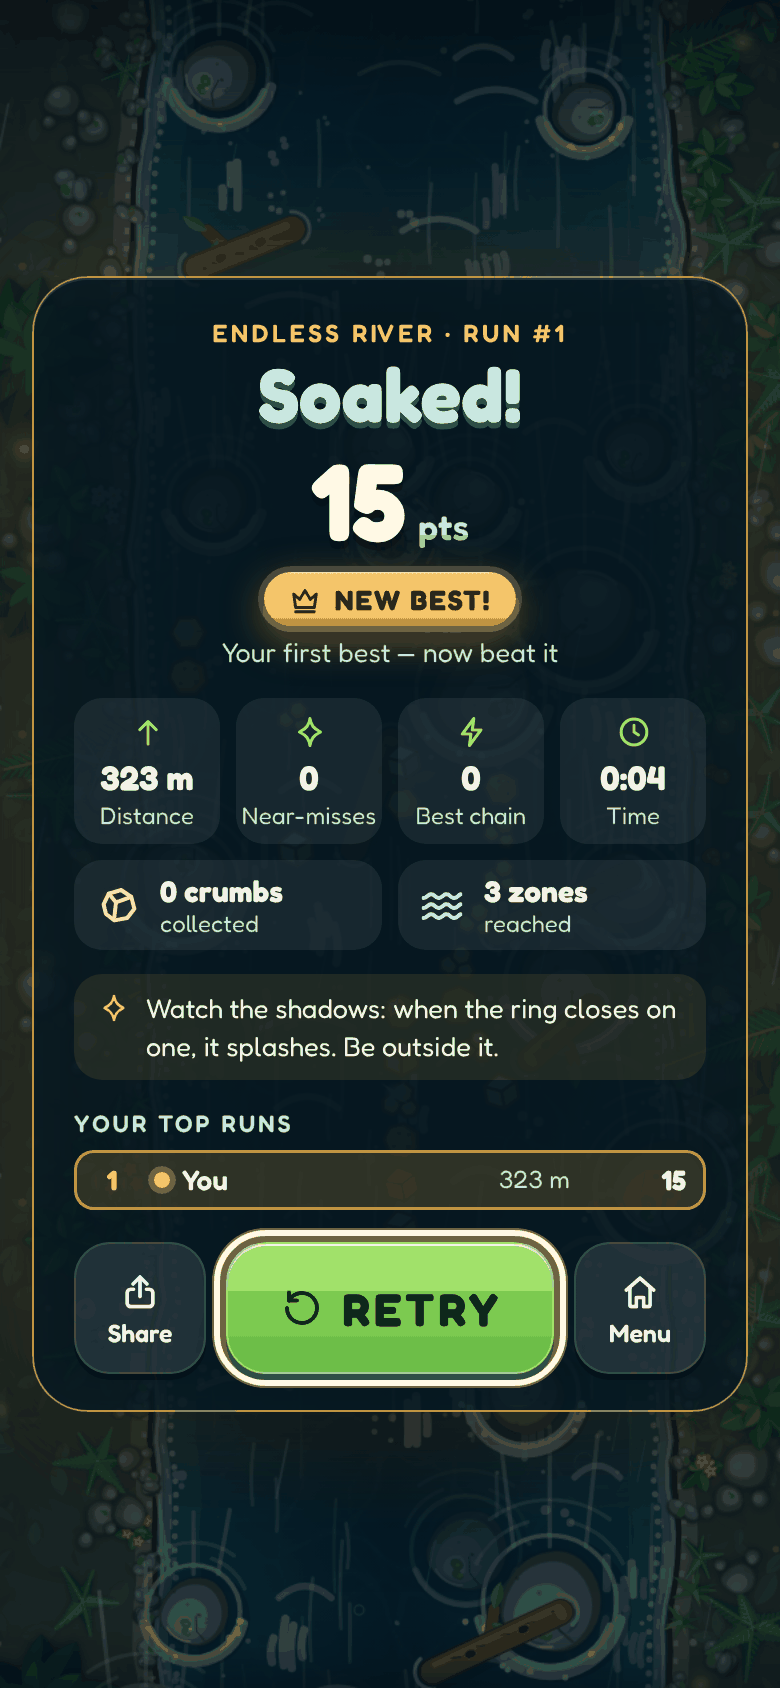
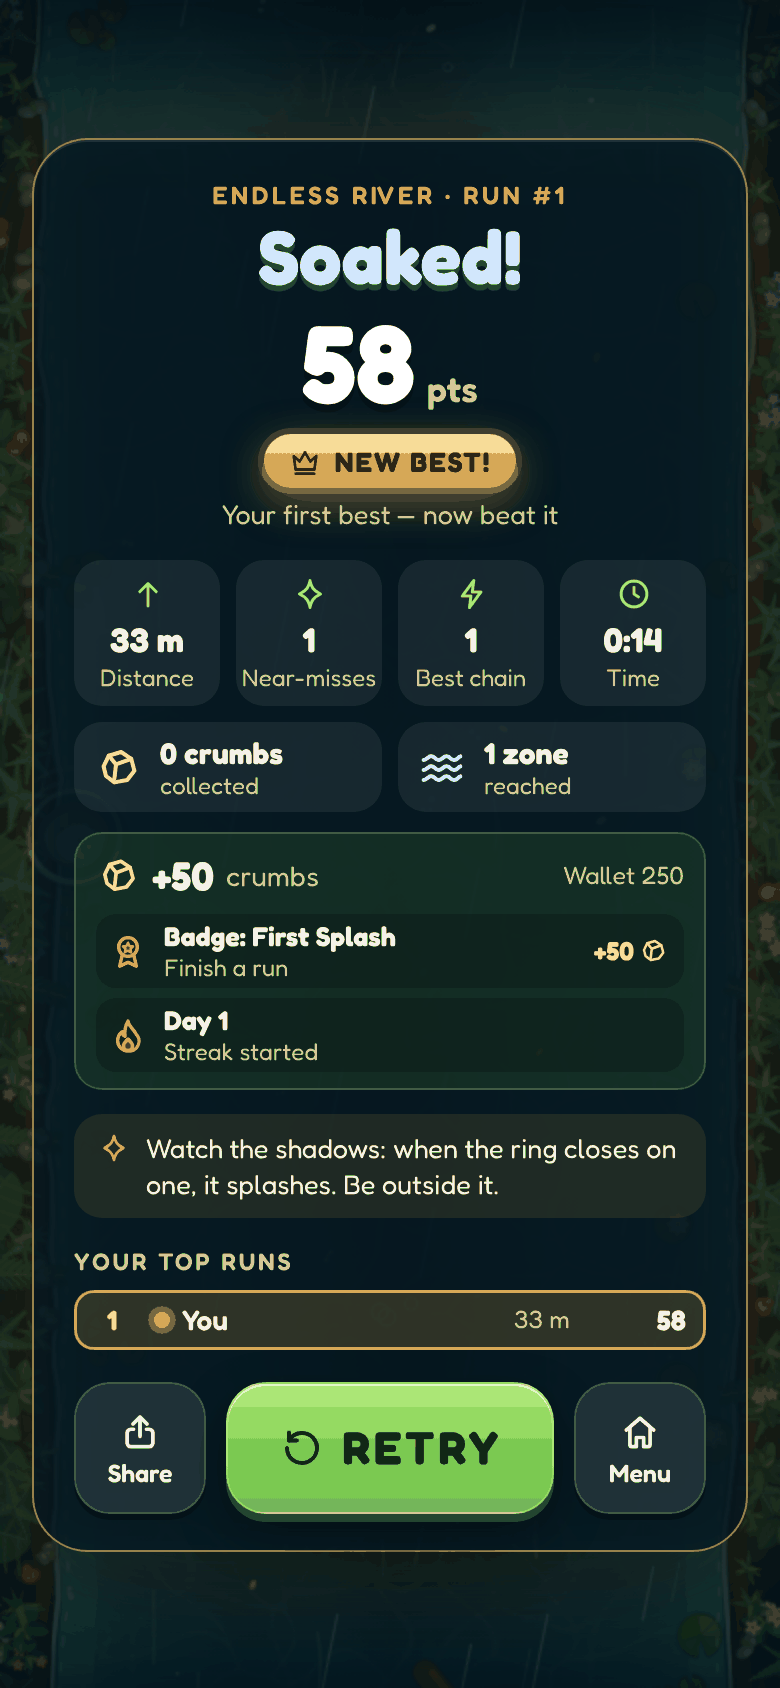
Phase 3: streak, daily missions, crumb shop with skins, achievements
- daily streak with milestone bonuses; 3 date-seeded daily missions
  (same for everyone) paying 30/60/100 crumbs; 12 achievements, Night
  Owl unlocks the Night Glow skin
- crumb shop with 6 ant skins (stripes, glow, shine) and live previews;
  skins are cosmetic only (a test pins identical simulation per skin)
- title wallet, streak and missions card; Shop and Badges screens;
  game-over rewards; mission pills; purchase/mission/achievement SFX
- polish: riskier dare crumb trails, darker night outlines, README
  screenshots; PLAN.md "As shipped"

216 unit tests and 53 e2e tests pass.

Claude-Session: https://claude.ai/code/session_01XsXmV66q1sVjbsTrZdSigp

diff --git a/docs/phase-3/PLAN.md b/docs/phase-3/PLAN.md
@@ -4,7 +4,8 @@ Phase 1 made the game fair and competitive, and Phase 2 made each run varied
 (zones, crumbs, power-ups, night). Phase 3 gives every session a purpose: a
 streak to keep, daily missions to finish, crumbs to spend, and badges to earn.
 
-Status: **planned, not started.** The future roadmap is in `docs/ROADMAP.md`.
+Status: **shipped** (see "As shipped" at the end). The future roadmap is in
+`docs/ROADMAP.md`.
 
 ## Ground rules
 
@@ -225,3 +226,58 @@ The templates below each have easy, medium and hard targets.
 > - Commit checkpoints after each stage. **Don't open a PR or deploy** until I
 >   say "deploy".
 > - Budget cap: +300k.
+
+## As shipped
+
+All five features landed as planned: streak, three daily missions, the crumb
+shop with six skins, 12 badges, and the Phase 2 polish. `npm run check` (216
+unit tests) and the full Playwright suite (phone and desktop) pass, with no
+e2e test changed.
+
+### What differs from the plan
+
+- **Storage API.** The plan listed `spend`, `credit`, `setSkin` and
+  `markUnlocked`. Shipped: `getMeta`, `updateMeta(fn)` (the callback returns the
+  crumbs to credit, so a run's rewards are one two-tab-safe write), `buySkin`,
+  `equipSkin` and `getWallet`. The wallet never goes negative.
+- **Mission pills.** "Finish N runs" and "Play the Daily River" only complete at
+  game over, so they have no in-run pill. A mission announced mid-run is paid
+  when the run is recorded; abandoning a live run records nothing, so that
+  mission can be completed again later.
+- **Streak milestones** are paid each time a streak reaches 3, 7, 14 or 30, so a
+  player who breaks and rebuilds a streak is paid again (each payout takes real
+  days of play).
+- **Sweet Tooth** counts lifetime `stats.totalCrumbs`, so a Phase 2 player with
+  1,000+ crumbs unlocks it on their first Phase 3 run.
+- **Title layout.** On screens up to 680 px tall the brand mark and tagline are
+  hidden so the missions card clears the river.
+- **Skins.** Bee and Golden bodies have low luminance contrast with the light
+  leaf (about 1.7:1 and 2:1). They rely on the dark outline and, for the bee, the
+  stripes. Skins never touch `ANT_HIT_R` or `LEAF_HIT_R`; a test runs the same
+  seed with every skin and compares the worlds.
+- **Dare trails** now run on a circle just outside the rock's hit radius, and any
+  dare crumb that ends up inside the hit circle is dropped, so a dare crumb never
+  costs a heart. Night outlines fade beyond about 300 units.
+
+### Economy (measured once, no new tests)
+
+- **Crumbs per run:** a bot that ignores crumbs picks up about 2 crumbs by 30 s,
+  about 4 by 60 s and about 7 by 120 s (20 seeds). A player who routes for
+  trails collects roughly two to three times that, so **about 5-20 crumbs a run**
+  and 10-15 for a typical casual run. This is under the plan's 15-35 guess,
+  because 1 crumb = 1 wallet crumb; the trail bonus pays points, not crumbs.
+- **Missions** add up to 190 a day (30 + 60 + 100). An easy and a medium one are
+  realistic on a normal day.
+- **Pacing:** the first run pays First Splash (+50) plus crumbs, so the first
+  skin (Leafcutter, 150) arrives in about 3-5 runs on day one. At about 5 runs
+  and 100-150 crumbs of missions a day, all four buyable skins (1,850 crumbs)
+  take about 10-12 days, roughly 50-60 runs, plus badge payouts. That is close
+  to the 60-80 run target, so prices stay at 150 / 400 / 400 / 900.
+
+### Deferred
+
+- Share text does not include the streak line yet.
+- A mission progress bar on the title does not move during a run, only after
+  game over.
+- Re-checking the retuned skin palettes on a real phone in daylight.
+

diff --git a/README.md b/README.md
@@ -193,9 +193,10 @@ replaces the old cache-first worker, clears its cache and reloads into v2.
 - **Phase 2 (shipped):** crumb trails, power-ups, river zones with their own
   mechanics, and a night river. Design and balance notes are in
   [`docs/phase-2/PLAN.md`](docs/phase-2/PLAN.md).
-- **Phase 3 (in progress):** spend your crumbs in a shop on ant skins, keep a
-  daily streak, complete daily missions and earn achievements. The plan is in
-  [`docs/phase-3/PLAN.md`](docs/phase-3/PLAN.md); later phases are in
+- **Phase 3 (shipped):** spend your crumbs in a shop on ant skins, keep a
+  daily streak, complete daily missions and earn achievements. Design and
+  economy notes are in [`docs/phase-3/PLAN.md`](docs/phase-3/PLAN.md); later
+  phases are in
   [`docs/ROADMAP.md`](docs/ROADMAP.md).
 
 Leaderboards are local for now. Global boards need a server that validates

diff --git a/docs/ROADMAP.md b/docs/ROADMAP.md
@@ -4,7 +4,7 @@
 |---|---|---|
 | 1 | Modern rebuild: fair telegraphed rain, near-miss combos, Daily River, local leaderboards, installable PWA | ✅ Shipped (see README) |
 | 2 | More to chase: river zones, crumbs, power-ups, night river | ✅ Shipped (`docs/phase-2/PLAN.md`) |
-| 3 | Reasons to come back: streak, daily missions, crumb shop with skins, achievements, polish | 📋 Planned (`docs/phase-3/PLAN.md`) |
+| 3 | Reasons to come back: streak, daily missions, crumb shop with skins, achievements, polish | ✅ Shipped (`docs/phase-3/PLAN.md`) |
 | 4 | More game, still offline | 💡 Ideas |
 | 5 | Online and competitive | 💡 Ideas |
 | 6 | Reach and polish | 💡 Ideas |
